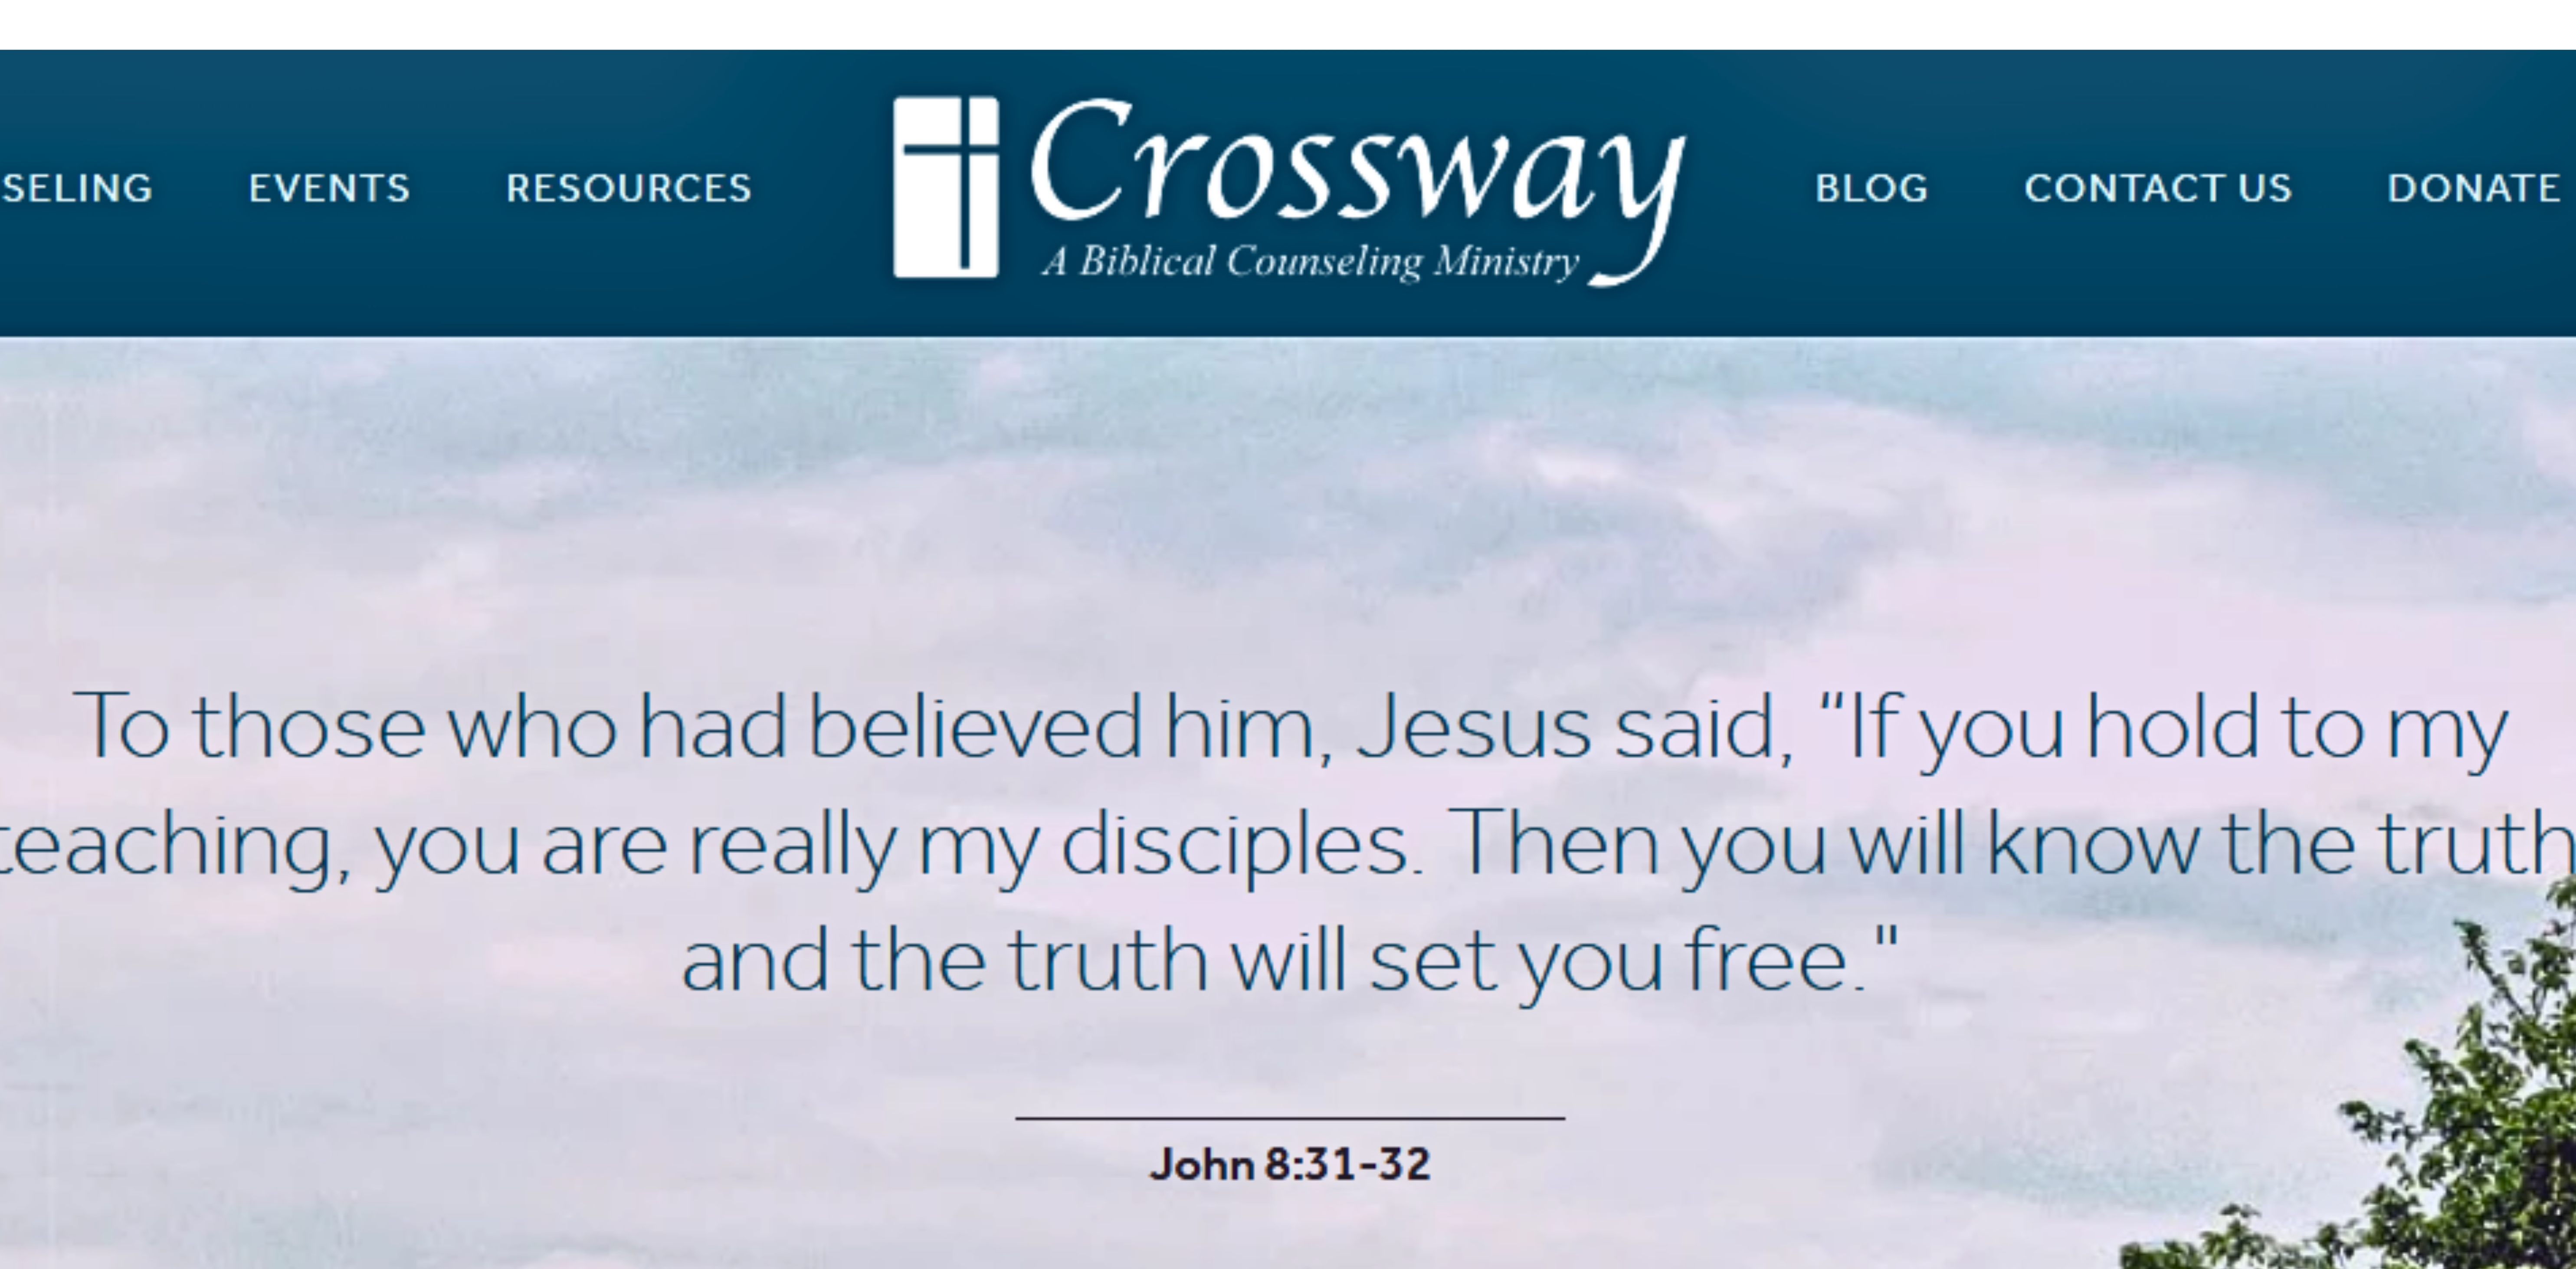
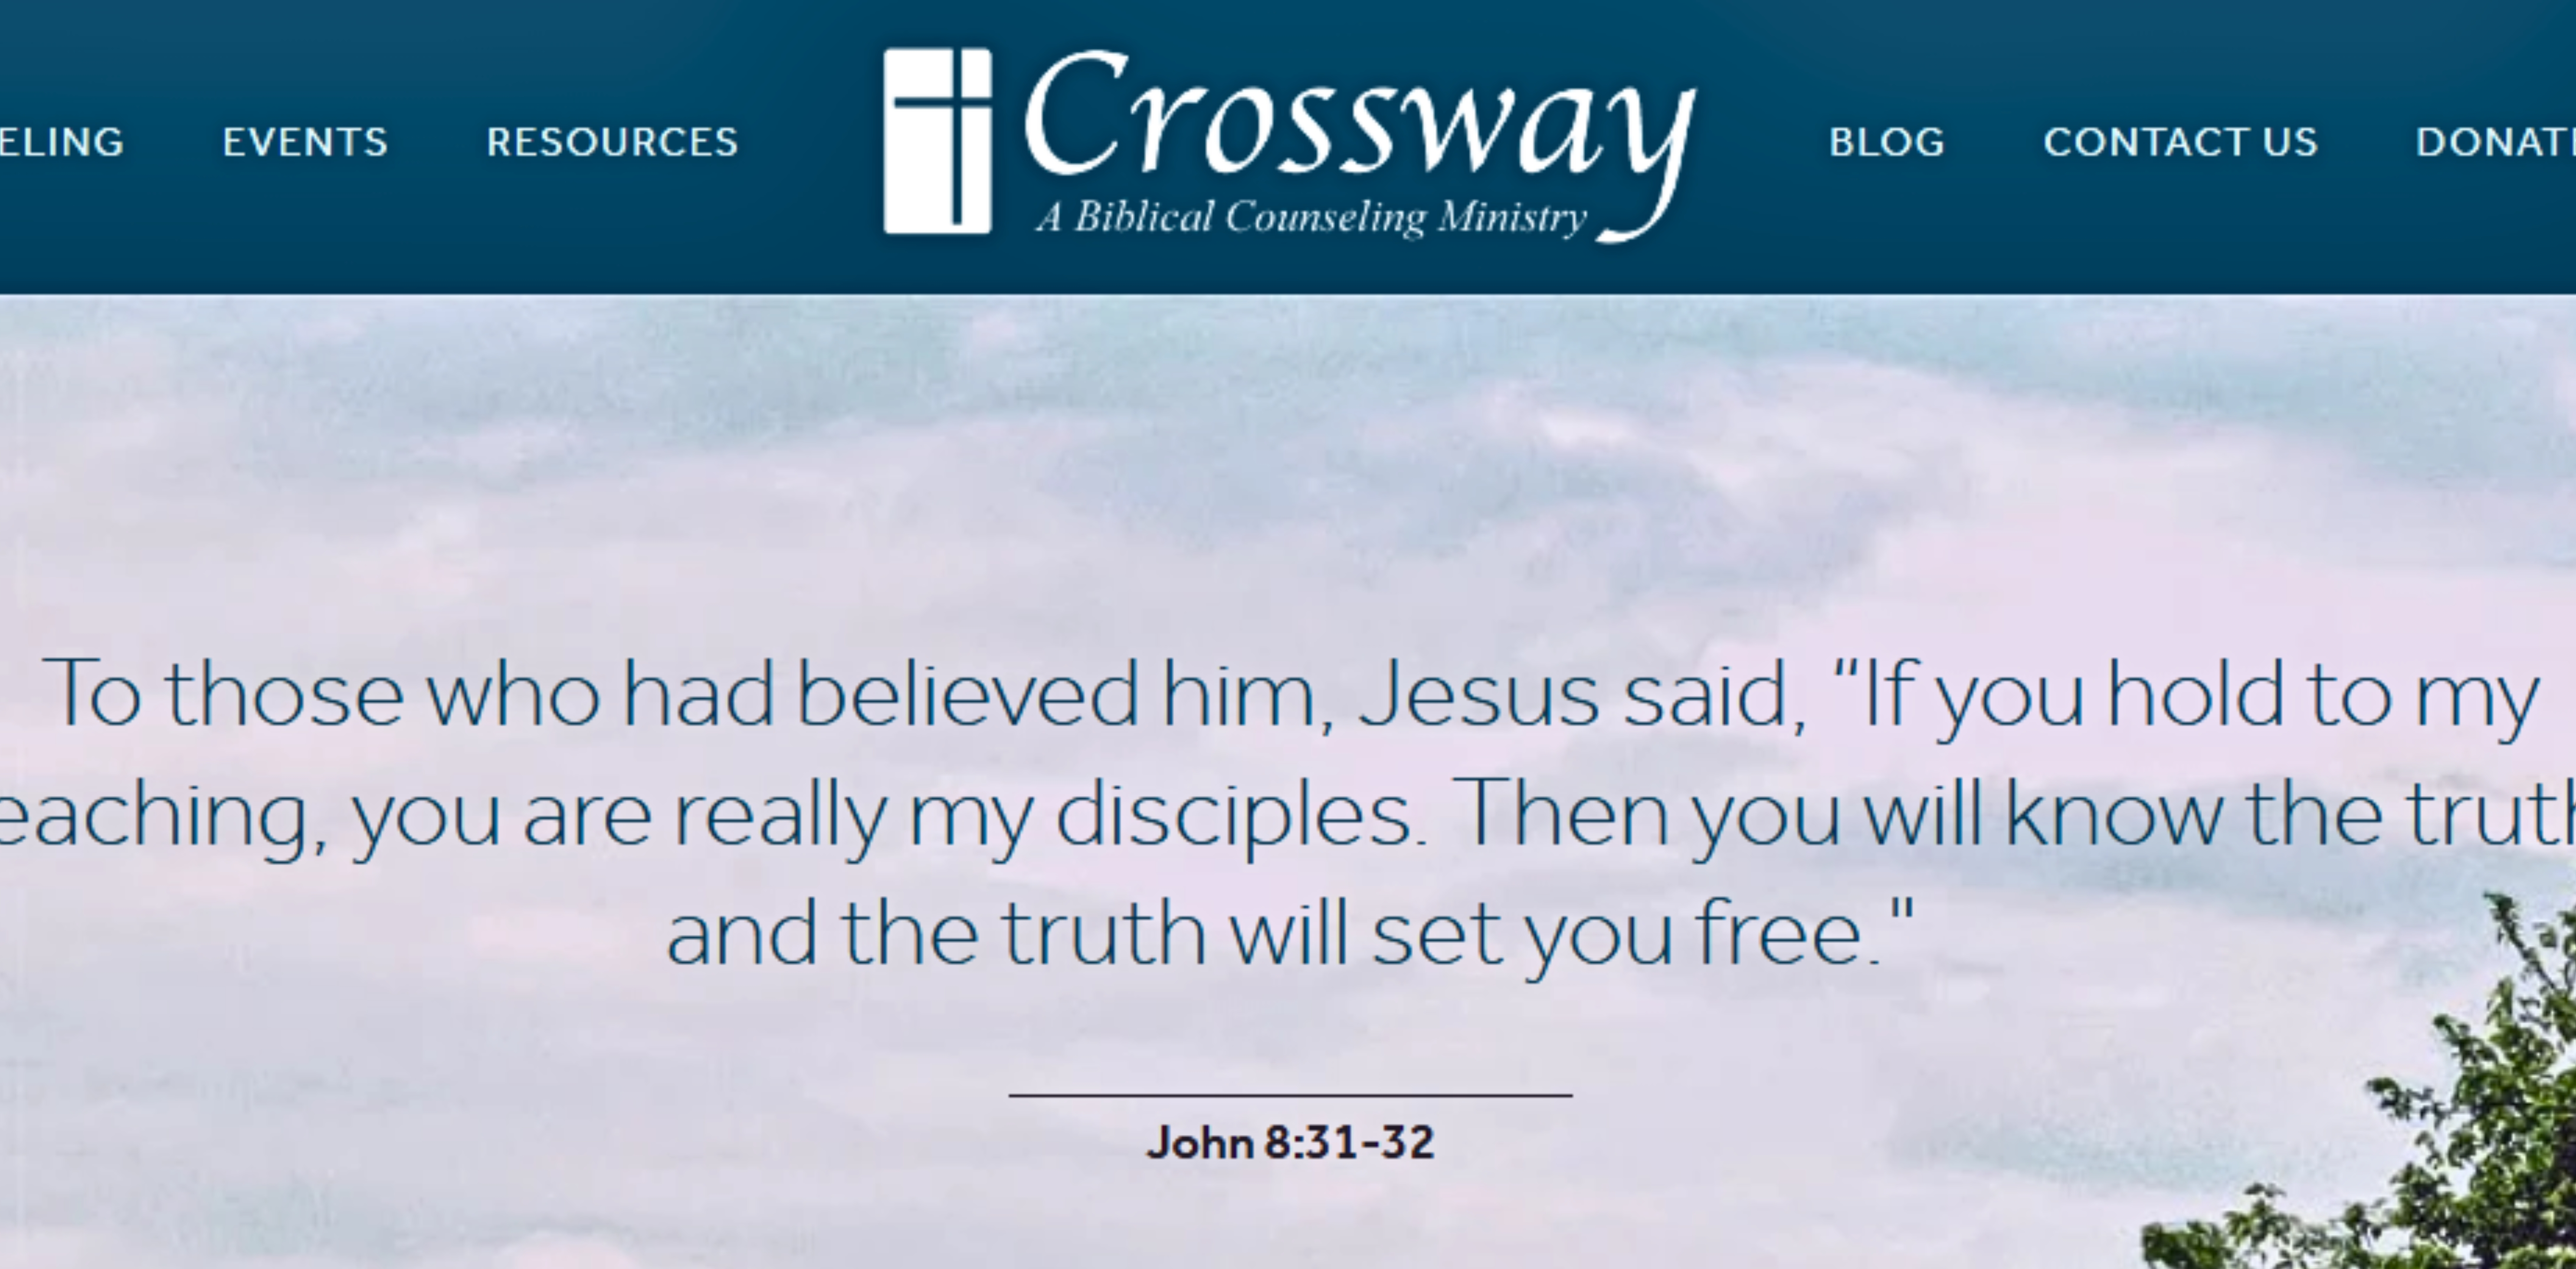
add project buttons and updated width on the projects in css

diff --git a/CSS/css.css b/CSS/css.css
@@ -78,6 +78,23 @@
             box-shadow: 0 6px 20px rgba(13, 148, 136, 0.4);
         }
 
+        .cta-btn-project {
+            display: inline-block;
+            background: linear-gradient(135deg, #233560, #0f172a);
+            color: #ffffff;
+            text-decoration: none;
+            padding: 7px 16px;
+            margin: 15px 0 0 0;
+            font-weight: 600;
+            border-radius: 10px;
+            box-shadow: 0 4px 14px rgba(65, 85, 137, 0.3);
+            transition: transform 0.2s, box-shadow 0.2s;
+        }
+        .cta-btn-project:hover {
+            transform: translateY(-2px);
+            box-shadow: 0 6px 20px rgba(65, 85, 137, 0.4);
+        }
+
         /* SECTION UTILITIES */
         .section-break {
             border: 0;
@@ -223,12 +240,14 @@
             border-radius: 20px;
             overflow: hidden;
             box-shadow: 0 4px 6px -1px rgba(0, 0, 0, 0.05);
-            transition: transform 0.2s;
+            /*transition: transform 0.2s;*/
         }
-        .project-card:hover { transform: translateY(-4px); }
+        /*.project-card:hover { transform: translateY(-4px); }*/
         .project-img-wrapper {
             width: 100%;
+            max-width: 750px;
             height: 220px;
+            overflow: hidden;
             background-color: #cbd5e1;
             overflow: hidden;
         }
@@ -236,6 +255,8 @@
             width: 100%;
             height: 100%;
             object-fit: cover;
+            object-fit: cover; /* Forces the image to fill the container without distorting */
+            object-position: top center; /* Focuses the crop on the top-half of your home page */
         }
         .project-info { padding: 24px; }
         .project-info h4 { font-size: 1.25rem; color: #0f172a; margin-bottom: 6px; }

diff --git a/index.html b/index.html
@@ -4,7 +4,7 @@
     <meta charset="UTF-8">
     <meta name="viewport" content="width=device-width, initial-scale=1.0">
     <title>Emily Watts | Web Developer</title>
-    <link rel="stylesheet" href="/CSS/css.css"/>
+    <link rel="stylesheet" href="CSS/css.css"/>
 </head>
 <body>
 
@@ -156,7 +156,6 @@
             <h2 class="section-title">Sample Projects</h2>
             <div class="projects-grid">
                 <!-- Project 1 -->
-                <a href="https://www.i26-sc27.com/default.aspx">
                     <div class="project-card">
                     <div class="project-img-wrapper">
                         <img src="Images/RecentProject1.jpg" alt="I-26 SC27 Construction Project">
@@ -164,11 +163,10 @@
                     <div class="project-info">
                         <h4>Construction Project</h4>
                         <p>Structured, content-driven design with a clean, responsive layout and clear information hierarchy, optimized for accessible, cross-device user interaction.</p>
+                        <a href="https://www.i26-sc27.com/default.aspx" target="_blank" class="cta-btn-project">View Project</a>
                     </div>
                 </div>
-                </a>
                 <!-- Project 2 -->
-                 <a href="https://www.graceheals.org/">
                 <div class="project-card">
                     <div class="project-img-wrapper">
                         <img src="Images/RecentProject2.jpg" alt="Nonprofit Organization">
@@ -176,9 +174,9 @@
                     <div class="project-info">
                         <h4>Nonprofit Organization</h4>
                         <p>Responsive layout with intuitive navigation and a calm visual hierarchy that prioritizes readability and accessibility across desktop and mobile devices.</p>
+                        <a href="https://www.i26-sc27.com/default.aspx" target="_blank" class="cta-btn-project">View Project</a>
                     </div>
                 </div>
-                </a>
             </div>
         </section>
     </div>